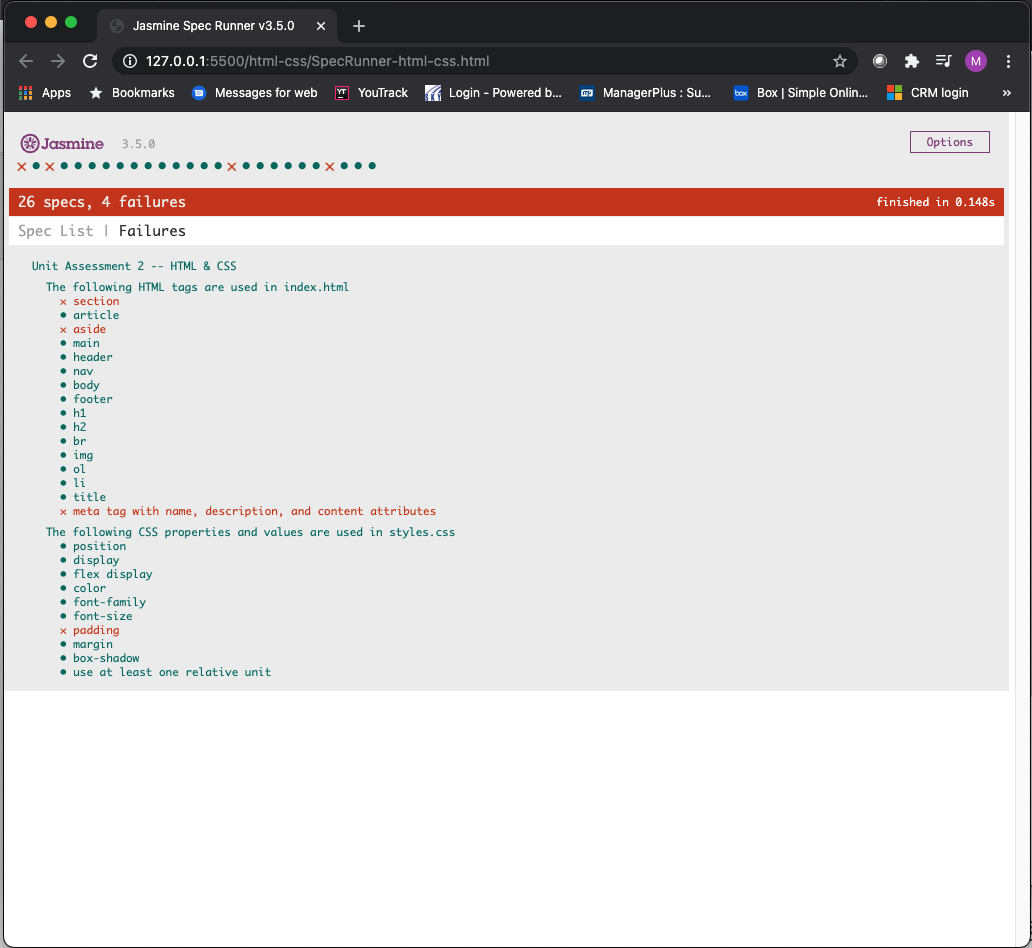
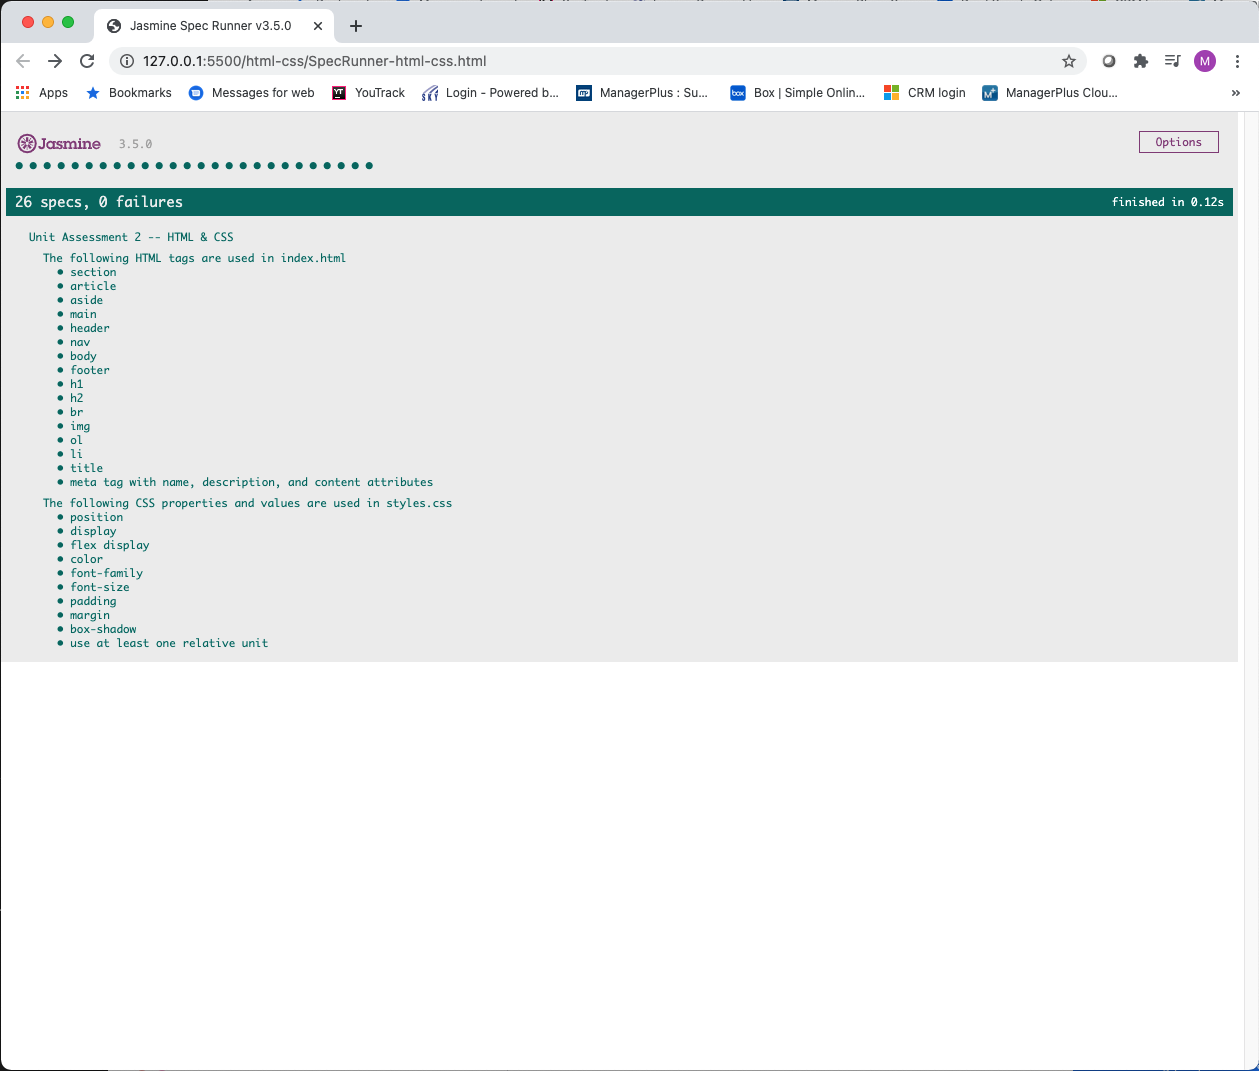
re-finished html (matching all specrunner req)

Changed region(s): [[0.0, 0.0, 1.0, 1.0], [0.2791, 0.2753, 0.3411, 0.3059]]

diff --git a/html-css/index.html b/html-css/index.html
@@ -4,6 +4,7 @@
     <meta charset="UTF-8">
     <meta http-equiv="X-UA-Compatible" content="IE=edge">
     <meta name="viewport" content="width=device-width, initial-scale=1.0">
+    <meta name="description" content="Assesment for HTML and CSS">
     <link rel="stylesheet" href="cssReset.css">
     <link rel="stylesheet" href="styles.css">
     <link rel="stylesheet" href="https://fonts.googleapis.com/css?family=Nunito">
@@ -30,17 +31,24 @@
         <div id = 'left'>
             <article>
                 <h1>Skills Check 2</h1>
+                <section>
+
                 <p>
                 Lorem ipsum dolor sit amet, consectetur adipiscing elit, sed do eiusmod tempor incididunt ut labore et dolore magna aliqua. Scelerisque felis imperdiet proin fermentum leo vel. Sit amet est placerat in egestas erat. Proin sagittis nisl rhoncus mattis rhoncus. Sit amet porttitor eget dolor morbi non arcu risus. Nec dui nunc mattis enim. Ipsum dolor sit amet consectetur adipiscing elit. Congue quisque egestas diam in arcu cursus euismod. Tristique nulla aliquet enim tortor at auctor urna nunc id. Consequat interdum varius sit amet mattis vulputate enim nulla aliquet. Mi sit amet mauris commodo quis imperdiet massa tincidunt. At risus viverra adipiscing at in tellus integer feugiat scelerisque. Ut sem nulla pharetra diam sit amet. Est ultricies integer quis auctor elit sed vulputate mi sit. Erat velit scelerisque in dictum non. Faucibus vitae aliquet nec ullamcorper sit amet risus. Ipsum consequat nisl vel pretium lectus quam id leo. Amet facilisis magna etiam tempor orci eu lobortis elementum nibh. Mi sit amet mauris commodo quis imperdiet massa tincidunt nunc. Enim nulla aliquet porttitor lacus.
                 </p>
+                </section>
                 <br>
+                <aside>
                 <p>
                 Lobortis scelerisque fermentum dui faucibus in ornare quam viverra orci. Tincidunt vitae semper quis lectus nulla at. Aenean et tortor at risus viverra adipiscing at. Tristique senectus et netus et malesuada fames ac turpis. Duis at tellus at urna condimentum mattis pellentesque id. Facilisi morbi tempus iaculis urna id volutpat. Tortor aliquam nulla facilisi cras fermentum. Lectus nulla at volutpat diam ut venenatis tellus in. Morbi tristique senectus et netus. Diam ut venenatis tellus in. Odio facilisis mauris sit amet massa vitae. Et malesuada fames ac turpis egestas sed tempus urna. Amet luctus venenatis lectus magna fringilla urna. At consectetur lorem donec massa sapien faucibus et.
                 </p>
+                </aside>
                 <br>
+                <section>
                 <p>
                 Eu consequat ac felis donec. In hac habitasse platea dictumst. Consectetur libero id faucibus nisl tincidunt. Quisque egestas diam in arcu cursus euismod quis viverra. Massa sed elementum tempus egestas sed sed. Ultrices tincidunt arcu non sodales neque. Et netus et malesuada fames ac turpis. Gravida arcu ac tortor dignissim convallis aenean et. Tincidunt eget nullam non nisi. Dignissim enim sit amet venenatis. Ullamcorper a lacus vestibulum sed arcu. Nunc mattis enim ut tellus elementum sagittis vitae et. Facilisis gravida neque convallis a cras semper auctor neque. Bibendum arcu vitae elementum curabitur vitae nunc sed velit dignissim. Non sodales neque sodales ut etiam sit amet. Massa vitae tortor condimentum lacinia quis vel eros. Ut sem nulla pharetra diam sit amet nisl suscipit.
                 </p>
+                </section>
             </article>
 
             <div id = 'gallery'>

diff --git a/html-css/styles.css b/html-css/styles.css
@@ -158,7 +158,7 @@ footer{
 #footerText{
 
     margin-top:50%;
-    
+    padding: 15px;
 }
 
 .help{
